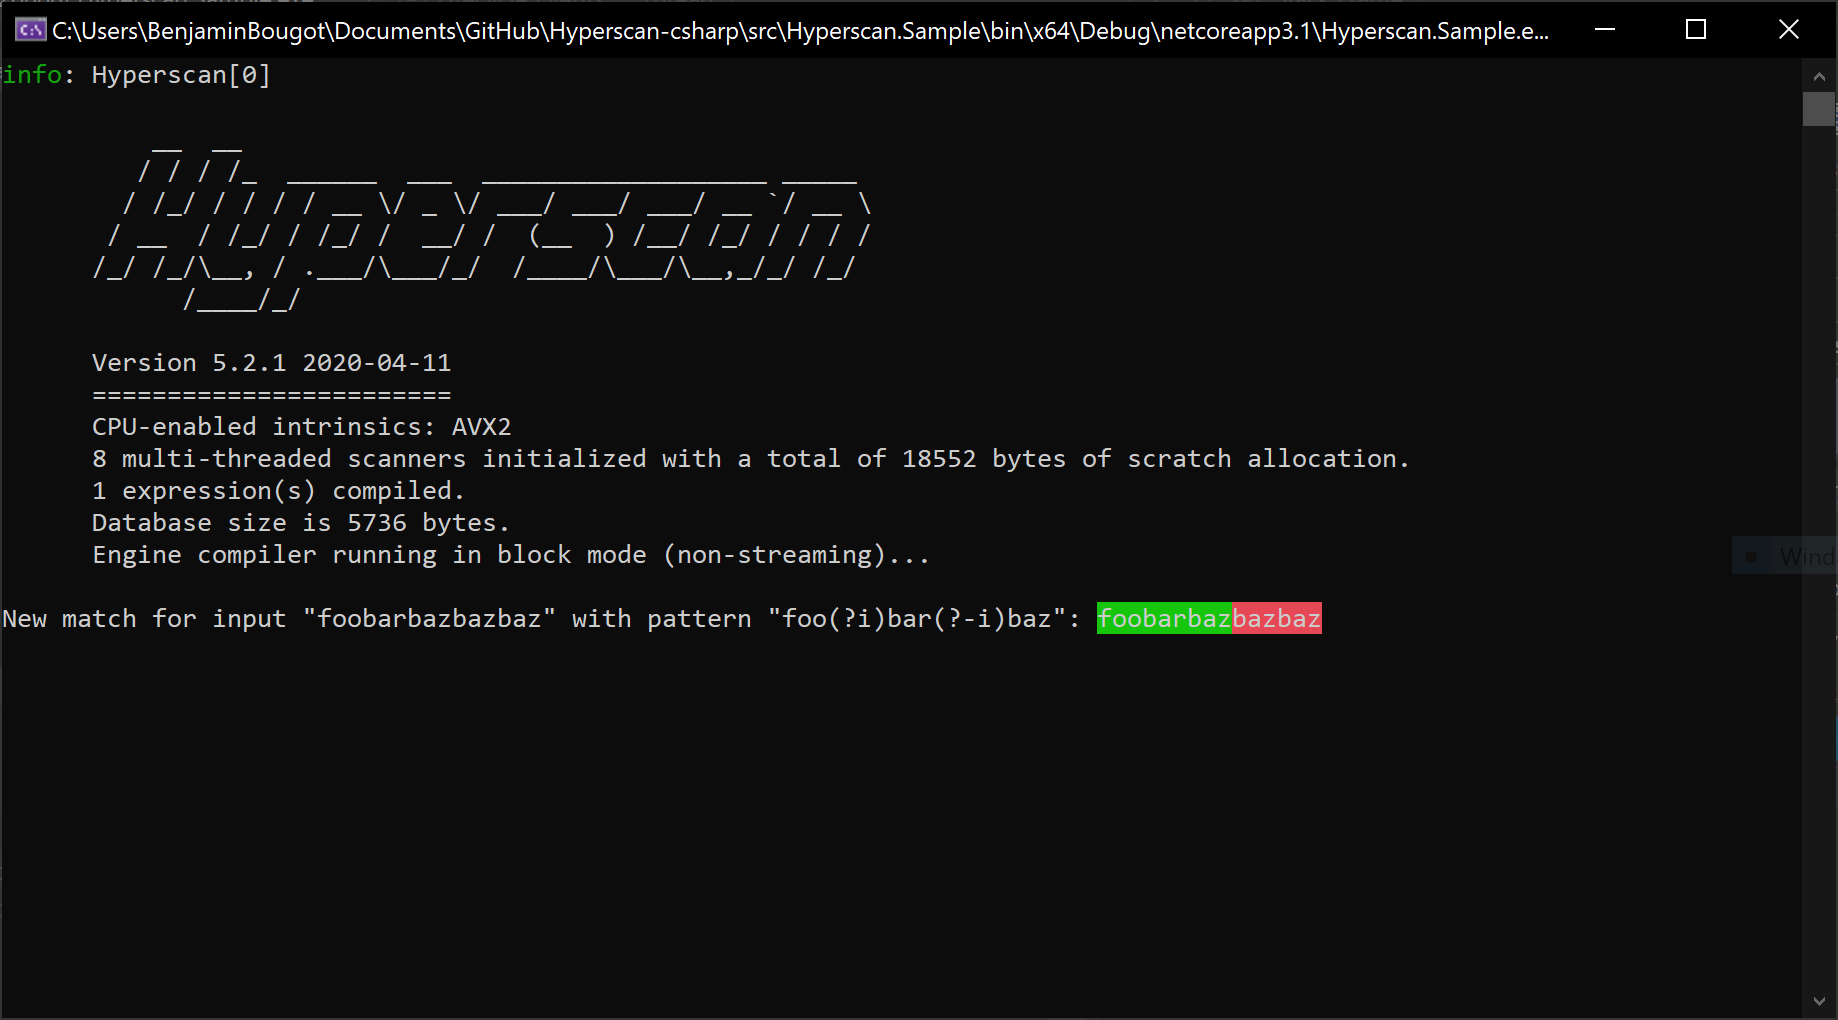
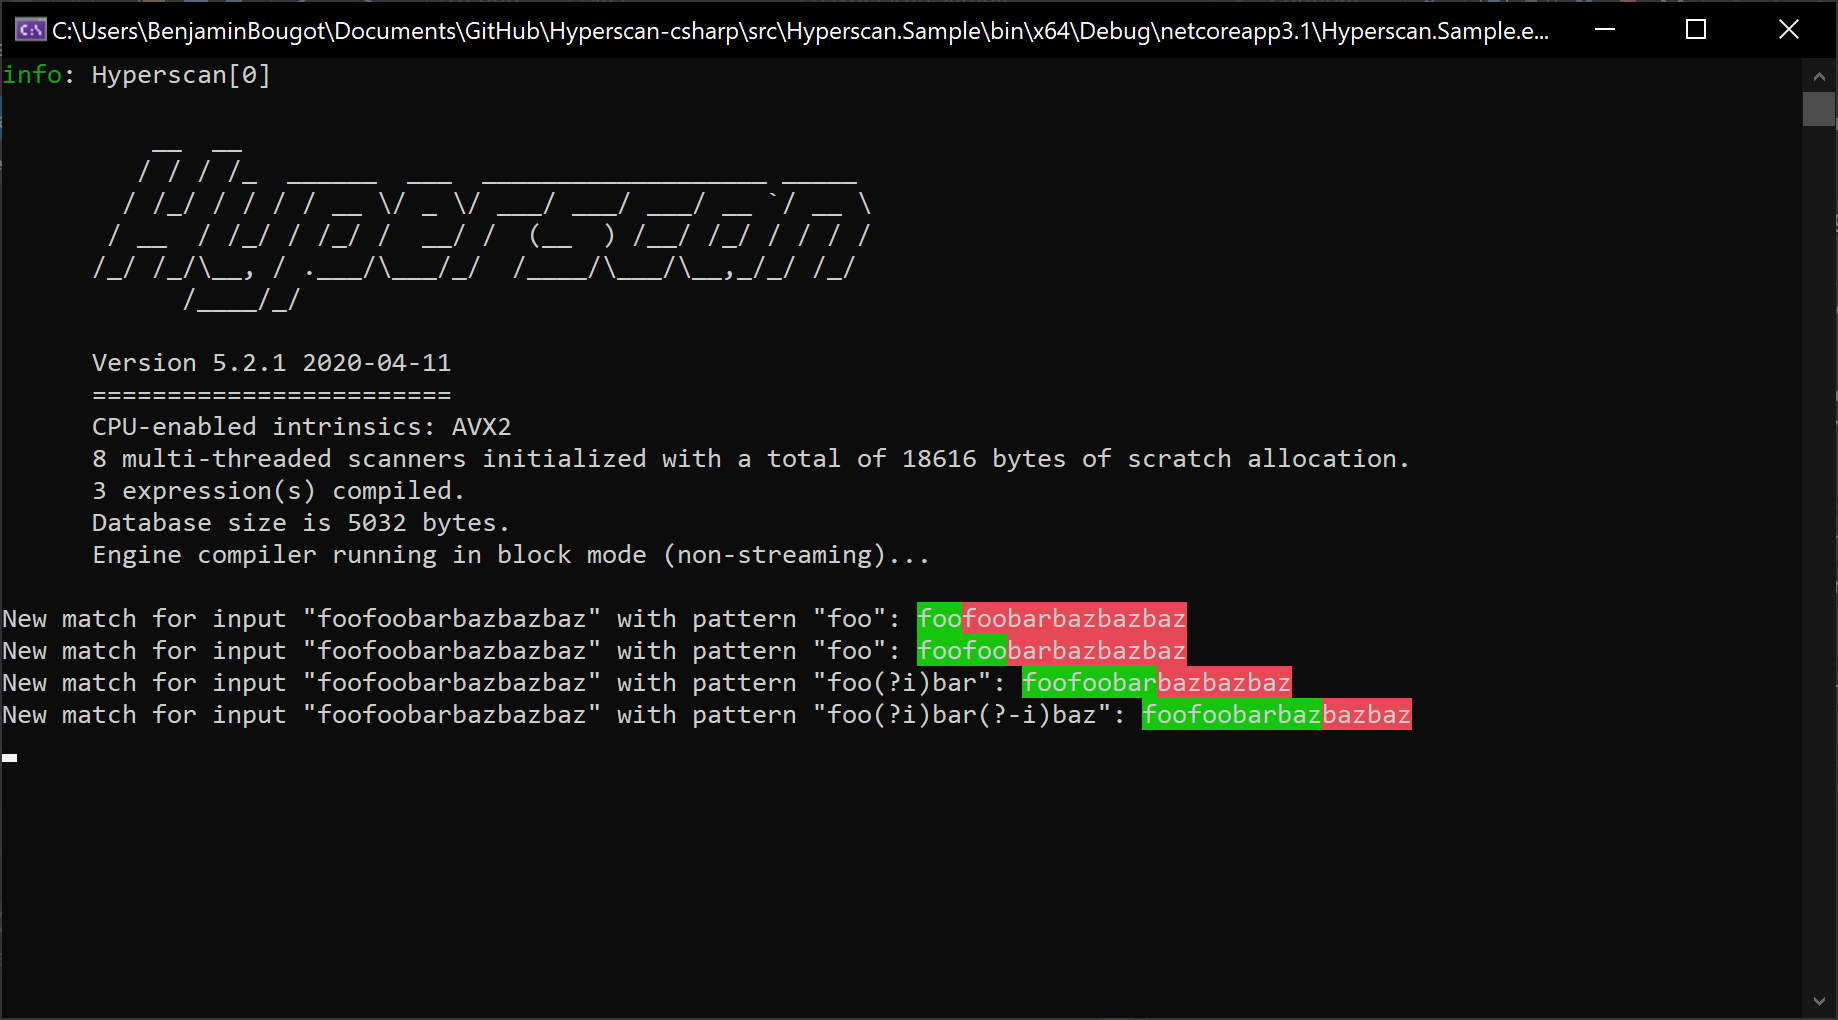
Adding tests

diff --git a/src/Hyperscan.Tests/ScannerTests.cs b/src/Hyperscan.Tests/ScannerTests.cs
@@ -1,0 +1,61 @@
+using System.Collections.Generic;
+using System.Reactive.Linq;
+using System.Reactive.Threading.Tasks;
+using System.Threading;
+using System.Threading.Tasks;
+using FluentAssertions;
+using Hyperscan.Compilation;
+using Hyperscan.Core;
+using Hyperscan.Databases;
+using Hyperscan.Extensions.Utils;
+using Hyperscan.Scanning;
+using Microsoft.Reactive.Testing;
+using Xunit;
+
+namespace Hyperscan.Tests
+{
+    public class ScannerTests
+    {
+        [Fact]
+        public async Task Engine_With_Simple_Compiler_Should_Match_Pattern()
+        {
+            var engineBuilder = new EngineBuilder();
+            engineBuilder.WithDatabase(() => new Database());
+            engineBuilder.WithCompiler(() => new SimpleCompiler(new Expression("foo(?i)bar(?-i)baz", ExpressionFlag.HsFlagUtf8), CompilerMode.HsModeBlock));
+            var engine = engineBuilder.Build();
+            var onMatch = engine.OnMatch.FirstAsync().ToTask();
+            await engine.ScanAsync("foofoobarbazbazbaz", CancellationToken.None);
+            var match = await onMatch;
+            match.Should().NotBeNull();
+            match.Expression.Flag.Should().Be(ExpressionFlag.HsFlagUtf8);
+            match.Expression.Id.Should().Be(0);
+            match.Expression.TryGetInfo(out var info).Should().BeTrue();
+            info.CompilationErrorMessage.Should().BeEmpty();
+            match.Input.Read().Should().Be("foofoobarbazbazbaz");
+            match.Expression.Pattern.Should().Be("foo(?i)bar(?-i)baz");
+        }
+
+        [Fact]
+        public async Task Engine_With_Multiple_Compiler_Should_Match_Patterns()
+        {
+            var engineBuilder = new EngineBuilder();
+            engineBuilder.WithDatabase(() => new Database());
+            engineBuilder.WithCompiler(() => new MultipleCompiler(new List<Expression>
+            {
+                new Expression("foo(?i)bar(?-i)baz", ExpressionFlag.HsFlagCaseless),
+                new Expression("foo", ExpressionFlag.HsFlagCaseless | ExpressionFlag.HsFlagUtf8),
+                new Expression("foo(?i)bar", ExpressionFlag.HsFlagCaseless | ExpressionFlag.HsFlagDotall)
+            }, CompilerMode.HsModeBlock));
+            var engine = engineBuilder.Build();
+            var observer = new TestScheduler().CreateObserver<Match>();
+            using var onMatch = engine.OnMatch.Subscribe(observer);
+            await engine.ScanAsync("foofoobarbazbazbaz", CancellationToken.None);
+            await Task.Delay(100);
+            observer.Messages.Count.Should().Be(4);
+            observer.Messages.Should().Contain(message => message.Value.Value.FullMatch == "foo");
+            observer.Messages.Should().Contain(message => message.Value.Value.FullMatch == "foofoo");
+            observer.Messages.Should().Contain(message => message.Value.Value.FullMatch == "foofoobar");
+            observer.Messages.Should().Contain(message => message.Value.Value.FullMatch == "foofoobarbaz");
+        }
+    }
+}

diff --git a/src/Hyperscan.Tests/EngineTests.cs b/src/Hyperscan.Tests/EngineTests.cs
@@ -1,0 +1,49 @@
+using FluentAssertions;
+using Hyperscan.Compilation;
+using Hyperscan.Core;
+using Hyperscan.Core.Exceptions;
+using Hyperscan.Databases;
+using Xunit;
+
+namespace Hyperscan.Tests
+{
+    public class EngineTests
+    {
+        [Fact]
+        public void Compiler_Not_Configured_With_Engine_Builder_Should_Throw_Exception()
+        {
+            var engineBuilder = new EngineBuilder();
+            engineBuilder.WithDatabase(() => new Database());
+            FluentActions.Invoking(() => engineBuilder.Build()).Should().Throw<HyperscanException>();
+        }
+
+        [Fact]
+        public void Database_Not_Configured_With_Engine_Builder_Should_Throw_Exception()
+        {
+            var engineBuilder = new EngineBuilder();
+            engineBuilder.WithCompiler(() => new SimpleCompiler(new Expression("", ExpressionFlag.HsFlagAllowempty), CompilerMode.HsModeBlock));
+            FluentActions.Invoking(() => engineBuilder.Build()).Should().Throw<HyperscanException>();
+        }
+
+        [Fact]
+        public void Engine_Should_Have_Valid_Version()
+        {
+            var engineBuilder = new EngineBuilder();
+            engineBuilder.WithDatabase(() => new Database());
+            engineBuilder.WithCompiler(() => new SimpleCompiler(new Expression("", ExpressionFlag.HsFlagAllowempty), CompilerMode.HsModeBlock));
+            var engine = engineBuilder.Build();
+            engine.Version.Should().NotBeNullOrEmpty();
+        }
+
+        [Fact]
+        public void Platform_Should_Be_Valid()
+        {
+            var engineBuilder = new EngineBuilder();
+            engineBuilder.WithDatabase(() => new Database());
+            engineBuilder.WithCompiler(() => new SimpleCompiler(new Expression("", ExpressionFlag.HsFlagAllowempty), CompilerMode.HsModeBlock));
+            var engine = engineBuilder.Build();
+            engine.PlatformInfo.Should().NotBeNull();
+            engine.PlatformInfo.IsPlatformValid.Should().BeTrue();
+        }
+    }
+}

diff --git a/src/Hyperscan.Tests/DatabaseTests.cs b/src/Hyperscan.Tests/DatabaseTests.cs
@@ -1,0 +1,38 @@
+using FluentAssertions;
+using Hyperscan.Compilation;
+using Hyperscan.Core;
+using Hyperscan.Databases;
+using Xunit;
+
+namespace Hyperscan.Tests
+{
+    public class DatabaseTests
+    {
+        [Fact]
+        public void Database_Size_Should_Be_Valid()
+        {
+            var engineBuilder = new EngineBuilder();
+            engineBuilder.WithDatabase(() => new Database());
+            engineBuilder.WithCompiler(() => new SimpleCompiler(new Expression("", ExpressionFlag.HsFlagAllowempty), CompilerMode.HsModeBlock));
+            var engine = engineBuilder.Build();
+            engine.Database.Size.Should().BeGreaterThan(0);
+        }
+
+        [Fact]
+        public void Database_Serialization_Should_Serialize()
+        {
+            var engineBuilder = new EngineBuilder();
+            engineBuilder.WithDatabase(() => new Database());
+            engineBuilder.WithCompiler(() => new SimpleCompiler(new Expression("", ExpressionFlag.HsFlagAllowempty), CompilerMode.HsModeBlock));
+            var engine = engineBuilder.Build();
+            var bytes = engine.Database.Serialize();
+            bytes.Should().NotBeEmpty();
+
+            var engineBuilder2 = new EngineBuilder();
+            engineBuilder2.WithDatabase(() => new Database(bytes));
+            engineBuilder2.WithCompiler(() => new SimpleCompiler(new Expression("", ExpressionFlag.HsFlagAllowempty), CompilerMode.HsModeBlock));
+            var engine2 = engineBuilder.Build();
+            engine2.Database.Size.Should().Be(engine.Database.Size);
+        }
+    }
+}

diff --git a/src/hyperscan-bridge/hyperscan_expression.cpp b/src/hyperscan-bridge/hyperscan_expression.cpp
@@ -26,8 +26,7 @@
 using namespace Hyperscan::Compilation;
 
 Expression::Expression(String^ pattern, const ExpressionFlag expressionFlag) {
-	const auto rand_string_generator = gcnew Random();
-	this->m_id_ = rand_string_generator->Next();
+	this->m_id_ = 0;
 	this->m_pattern_ = pattern;
 	this->m_expression_flag_ = expressionFlag;
 }
@@ -36,8 +35,9 @@ bool Expression::TryGetInfo([Out] ExpressionInfo^% info)
 {
 	hs_expr_info_t* expr_info = nullptr;
 	hs_compile_error_t* compilation_error = nullptr;
+	auto input_ptr = Marshal::StringToHGlobalAnsi(this->Pattern);
 	try {
-		const auto expression_error = hs_expression_info(StringUtils::to_unmanaged(this->Pattern), static_cast<unsigned int>(this->Flag), &expr_info, &compilation_error);
+		const auto expression_error = hs_expression_info(static_cast<const char*>(input_ptr.ToPointer()), static_cast<unsigned int>(this->Flag), &expr_info, &compilation_error);
 		if (expression_error != HS_SUCCESS) {
 			const auto compilation_error_message = gcnew String(compilation_error->message);
 			info = gcnew ExpressionInfo(0, 0, false, false, false, compilation_error_message);
@@ -49,6 +49,7 @@ bool Expression::TryGetInfo([Out] ExpressionInfo^% info)
 	}
 	finally
 	{
+		Marshal::FreeHGlobal(input_ptr);
 		free(expr_info);
 		hs_free_compile_error(compilation_error);
 	}
@@ -56,6 +57,10 @@ bool Expression::TryGetInfo([Out] ExpressionInfo^% info)
 
 int Expression::Id::get() {
 	return this->m_id_;
+}
+
+void Expression::Id::set(int id) {
+	this->m_id_ = id;
 }
 
 String^ Expression::Pattern::get() {

diff --git a/src/Hyperscan/Core/EngineBuilder.cs b/src/Hyperscan/Core/EngineBuilder.cs
@@ -1,6 +1,7 @@
 using System;
 using System.Linq;
 using Hyperscan.Compilation;
+using Hyperscan.Core.Exceptions;
 using Hyperscan.Databases;
 using Hyperscan.Extensions.Expressions;
 using Hyperscan.Platform;
@@ -14,6 +15,11 @@ namespace Hyperscan.Core
         private Func<Database> _databaseFactory;
         private Func<Compiler> _compilerFactory;
         private ILogger _logger;
+
+        public EngineBuilder()
+        {
+            _logger = NullLogger.Instance;
+        }
 
         public void WithDatabase(Func<Database> databaseFactory)
         {
@@ -32,7 +38,17 @@ namespace Hyperscan.Core
 
         public IEngine Build()
         {
-            var engine = new Engine(_logger ?? NullLogger.Instance, _databaseFactory, _compilerFactory);
+            if (_databaseFactory == default)
+            {
+                throw new HyperscanException($"{nameof(WithDatabase)} should be called.");
+            }
+
+            if (_compilerFactory == default)
+            {
+                throw new HyperscanException($"{nameof(WithCompiler)} should be called.");
+            }
+
+            var engine = new Engine(_logger, _databaseFactory, _compilerFactory);
             if (!engine.PlatformInfo.IsPlatformValid)
             {
                 _logger.LogWarning("Platform not supported, Hyperscan may not run properly.");

diff --git a/src/hyperscan-bridge/hyperscan_utils.cpp b/src/hyperscan-bridge/hyperscan_utils.cpp
@@ -30,28 +30,6 @@ using namespace Runtime::InteropServices;
 
 using namespace Hyperscan::Utils;
 
-char* StringUtils::substring(const char* src, const long long start_index, const long long end_index) {
-	const auto length = end_index - start_index;
-	if (length < 0)
-		return nullptr;
-
-	const auto dest = new char[length + 1];
-
-	std::copy(src + start_index, src + end_index, dest);
-	dest[length] = '\0';
-
-	return dest;
-}
-
-char* StringUtils::to_unmanaged(String^ string) {
-	const pin_ptr<const wchar_t> pinned_input = PtrToStringChars(string);
-	const size_t input_size = string->Length + 1;
-	const auto input_ptr = new char[input_size];
-	size_t chars_converted = 0;
-	wcstombs_s(&chars_converted, input_ptr, input_size, pinned_input, string->Length);
-	return input_ptr;
-}
-
 array<Byte>^ StringUtils::to_managed_array(char* input, const int len)
 {
 	const auto managed_array = gcnew array<Byte>(len);

diff --git a/src/hyperscan-bridge/hyperscan_mutiple_compiler.cpp b/src/hyperscan-bridge/hyperscan_mutiple_compiler.cpp
@@ -38,7 +38,8 @@ void MultipleCompiler::Compile(Database^ database, PlatformInfo^ platformInfo)
     for (auto i = 0; i < this->m_expressions_->Count; i++)
     {
         expressions[i] = static_cast<char*>(Marshal::StringToHGlobalAnsi(this->m_expressions_[i]->Pattern).ToPointer());
-        expression_ids[i] = this->m_expressions_[i]->Id;
+        this->m_expressions_[i]->Id = i;
+        expression_ids[i] = i;
         expression_flags[i] = static_cast<unsigned int>(this->m_expressions_[i]->Flag);
     }
 
@@ -74,6 +75,7 @@ IDictionary<int, Expression^>^ MultipleCompiler::ExpressionsById::get()
 
     return expressions_by_id;
 }
+
 CompilerMode MultipleCompiler::Mode::get()
 {
     return this->m_compiler_mode_;

diff --git a/src/Hyperscan.Tests/ExpressionTests.cs b/src/Hyperscan.Tests/ExpressionTests.cs
@@ -1,0 +1,24 @@
+using FluentAssertions;
+using Hyperscan.Compilation;
+using Hyperscan.Extensions.Expressions;
+using Xunit;
+
+namespace Hyperscan.Tests
+{
+    public class ExpressionTests
+    {
+        [Fact]
+        public void Incorrect_Expression_Should_Not_Be_Valid()
+        {
+            var expression = new Expression("(((", ExpressionFlag.HsFlagDotall);
+            expression.IsValid().Should().BeFalse();
+        }
+
+        [Fact]
+        public void Correct_Expression_Should_Not_Be_Valid()
+        {
+            var expression = new Expression("foo(?i)bar(?-i)baz", ExpressionFlag.HsFlagDotall);
+            expression.IsValid().Should().BeTrue();
+        }
+    }
+}

diff --git a/src/Hyperscan.Tests/CompilerTests.cs b/src/Hyperscan.Tests/CompilerTests.cs
@@ -1,0 +1,19 @@
+using FluentAssertions;
+using Hyperscan.Compilation;
+using Xunit;
+
+namespace Hyperscan.Tests
+{
+    public class CompilerTests
+    {
+        [Theory]
+        [InlineData(CompilerMode.HsModeBlock)]
+        [InlineData(CompilerMode.HsModeStream)]
+        [InlineData(CompilerMode.HsModeVectored)]
+        public void Compiler_Mode_Should_Be_Populated(CompilerMode mode)
+        {
+            var compiler = new SimpleCompiler(new Expression("", ExpressionFlag.HsFlagAllowempty), mode);
+            compiler.Mode.Should().Be(mode);
+        }
+    }
+}

diff --git a/src/hyperscan-bridge/hyperscan_simple_compiler.cpp b/src/hyperscan-bridge/hyperscan_simple_compiler.cpp
@@ -52,7 +52,7 @@ void SimpleCompiler::Compile(Database^ database, PlatformInfo^ platformInfo)
 IDictionary<int, Expression^>^ SimpleCompiler::ExpressionsById::get()
 {
     const auto expressions_by_id =  gcnew Dictionary<int, Expression^>();
-    expressions_by_id->Add(this->m_expression_->Id, this->m_expression_);
+    expressions_by_id->Add(0, this->m_expression_);
     return expressions_by_id;
 }
 

diff --git a/src/Hyperscan.Sample/HyperscanService.cs b/src/Hyperscan.Sample/HyperscanService.cs
@@ -67,7 +67,7 @@ namespace Hyperscan.Sample
                 .Subscribe(match => { },
                     ex => { },
                     () => { });
-            await engine.ScanAsync("foobarbazbazbaz", stoppingToken);
+            await engine.ScanAsync("foofoobarbazbazbaz", stoppingToken);
             await Task.Delay(-1, stoppingToken);
         }
     }

diff --git a/src/hyperscan-bridge/hyperscan_match_observable.cpp b/src/hyperscan-bridge/hyperscan_match_observable.cpp
@@ -38,7 +38,7 @@ IDisposable^ MatchObservable::Subscribe(IObserver<Match^>^ observer) {
 }
 
 void MatchObservable::OnMatch(Match^ match) {
-	for each (IObserver<Match^>^ observer in this->m_observers_)
+	for each (IObserver<Match^>^ observer in gcnew List<IObserver<Match^>^>(this->m_observers_))
 	{
 		observer->OnNext(match);
 	}
